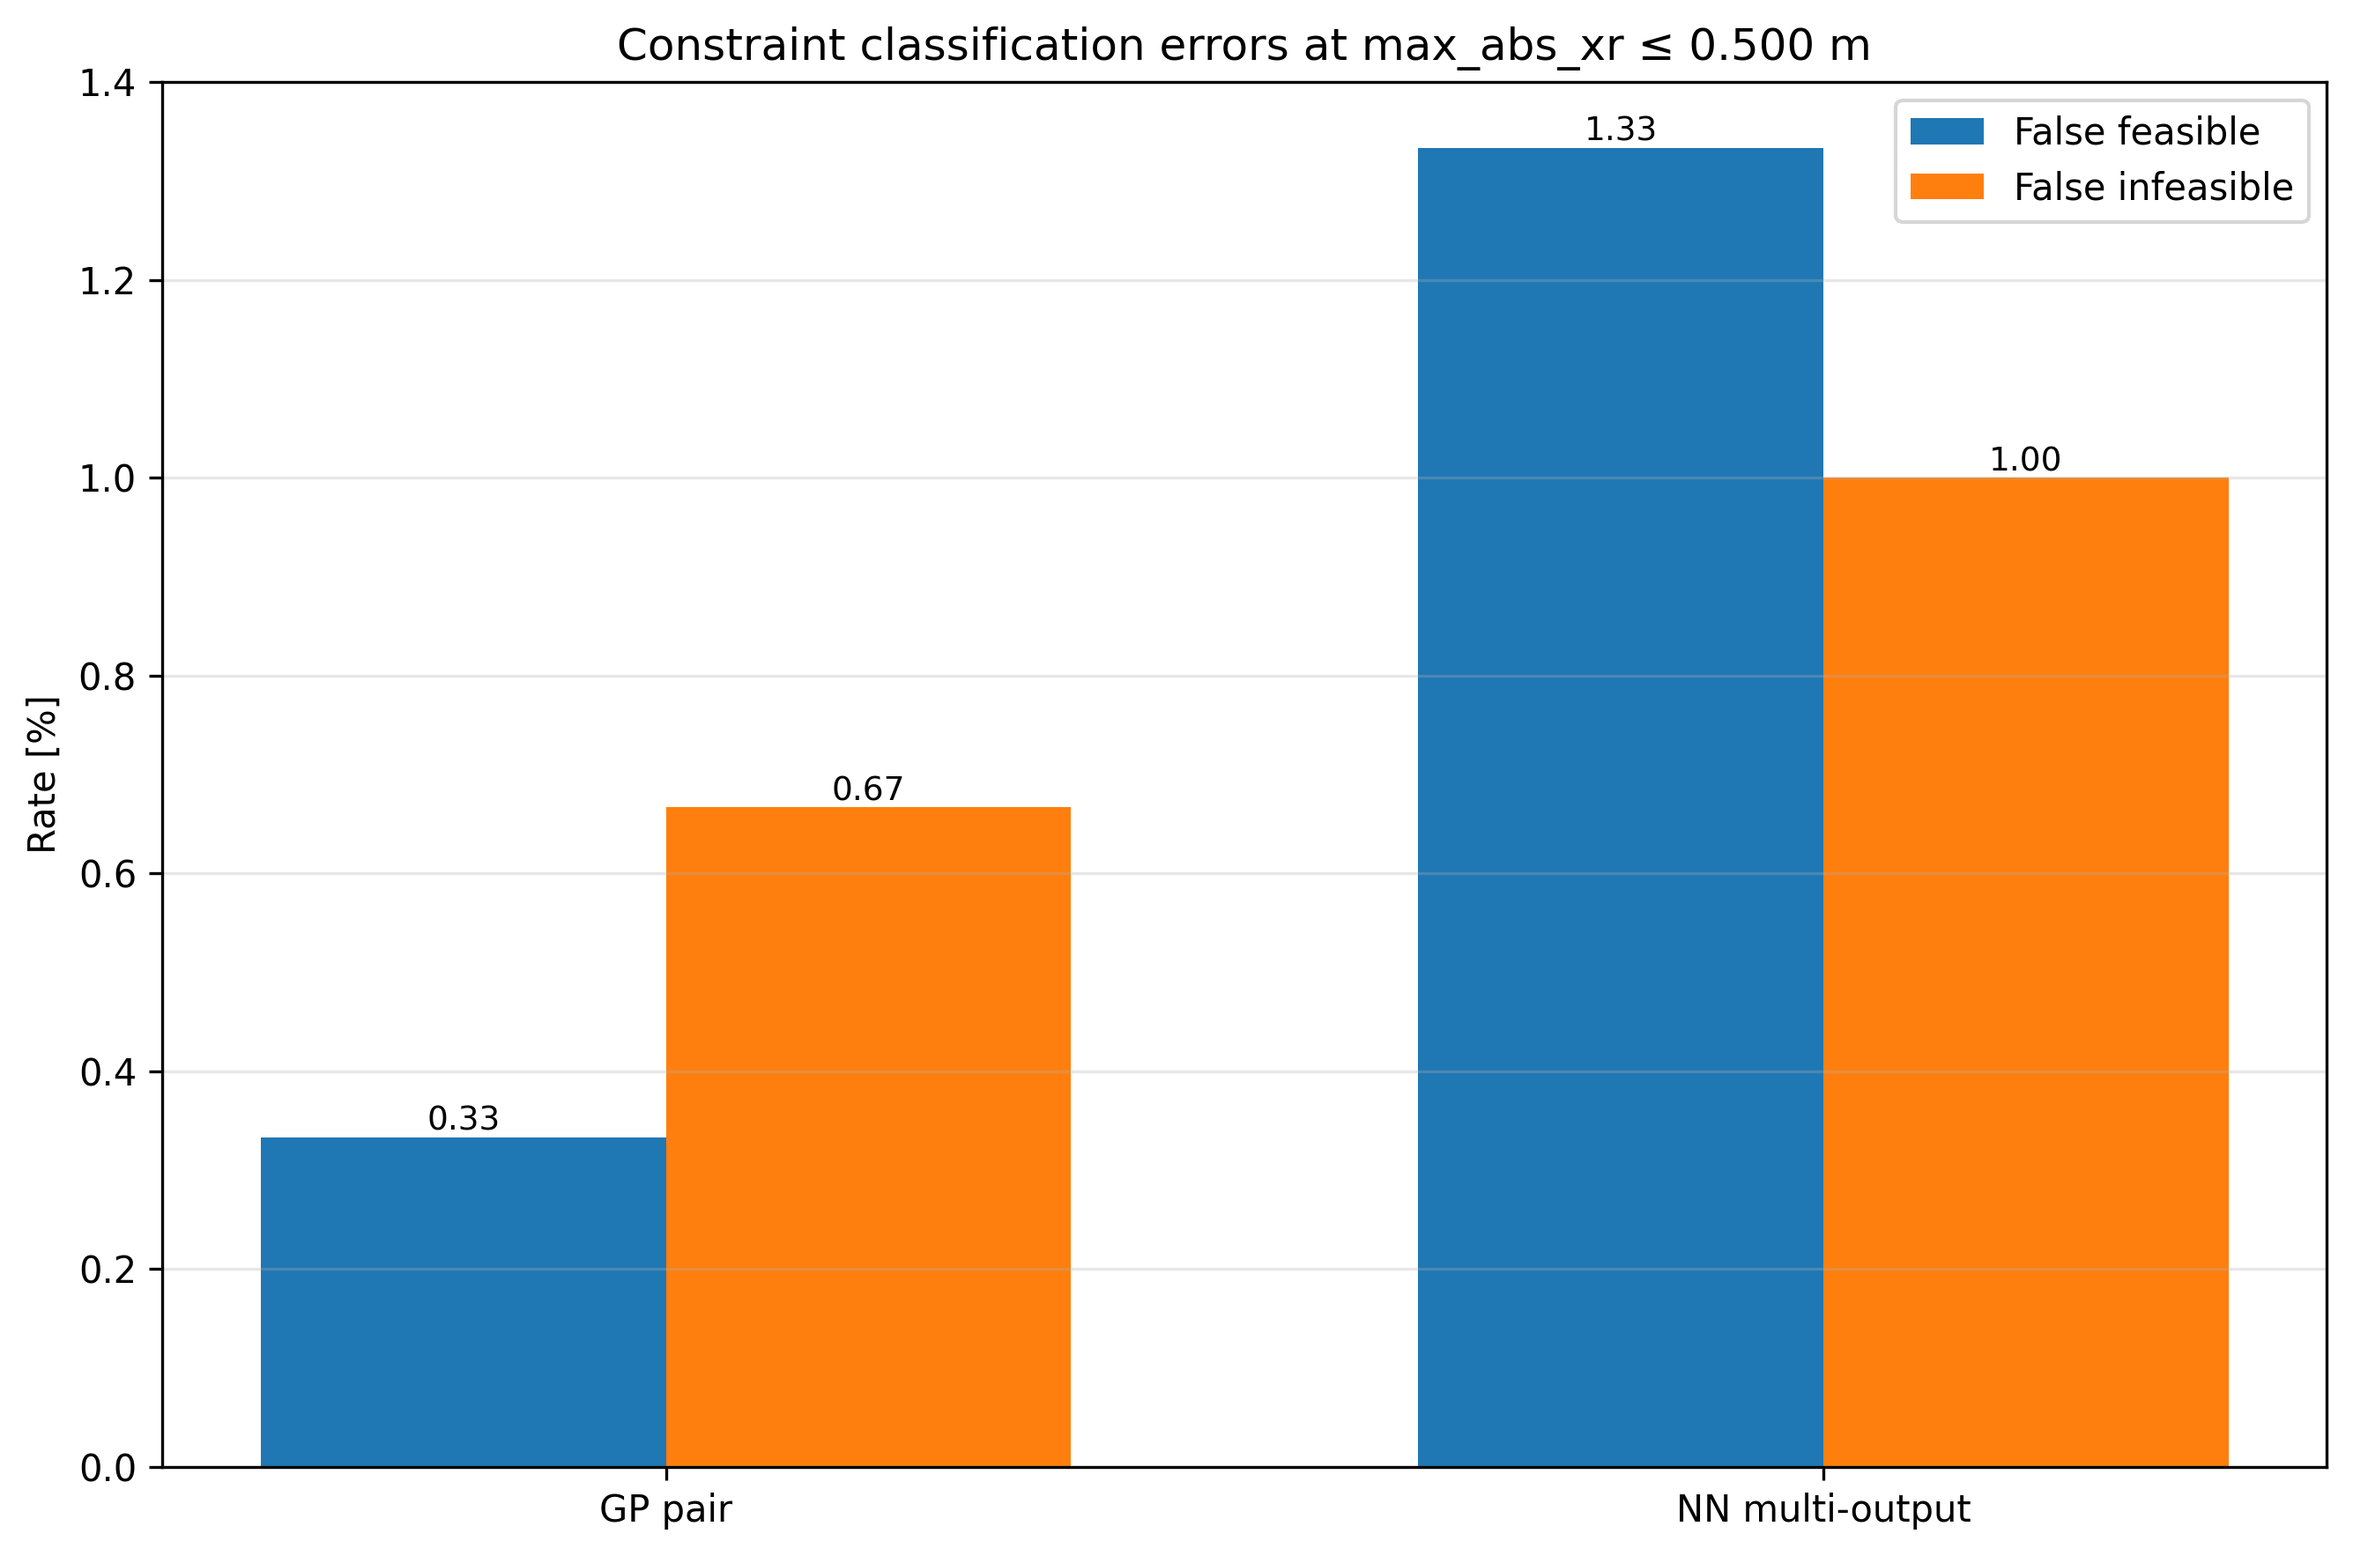
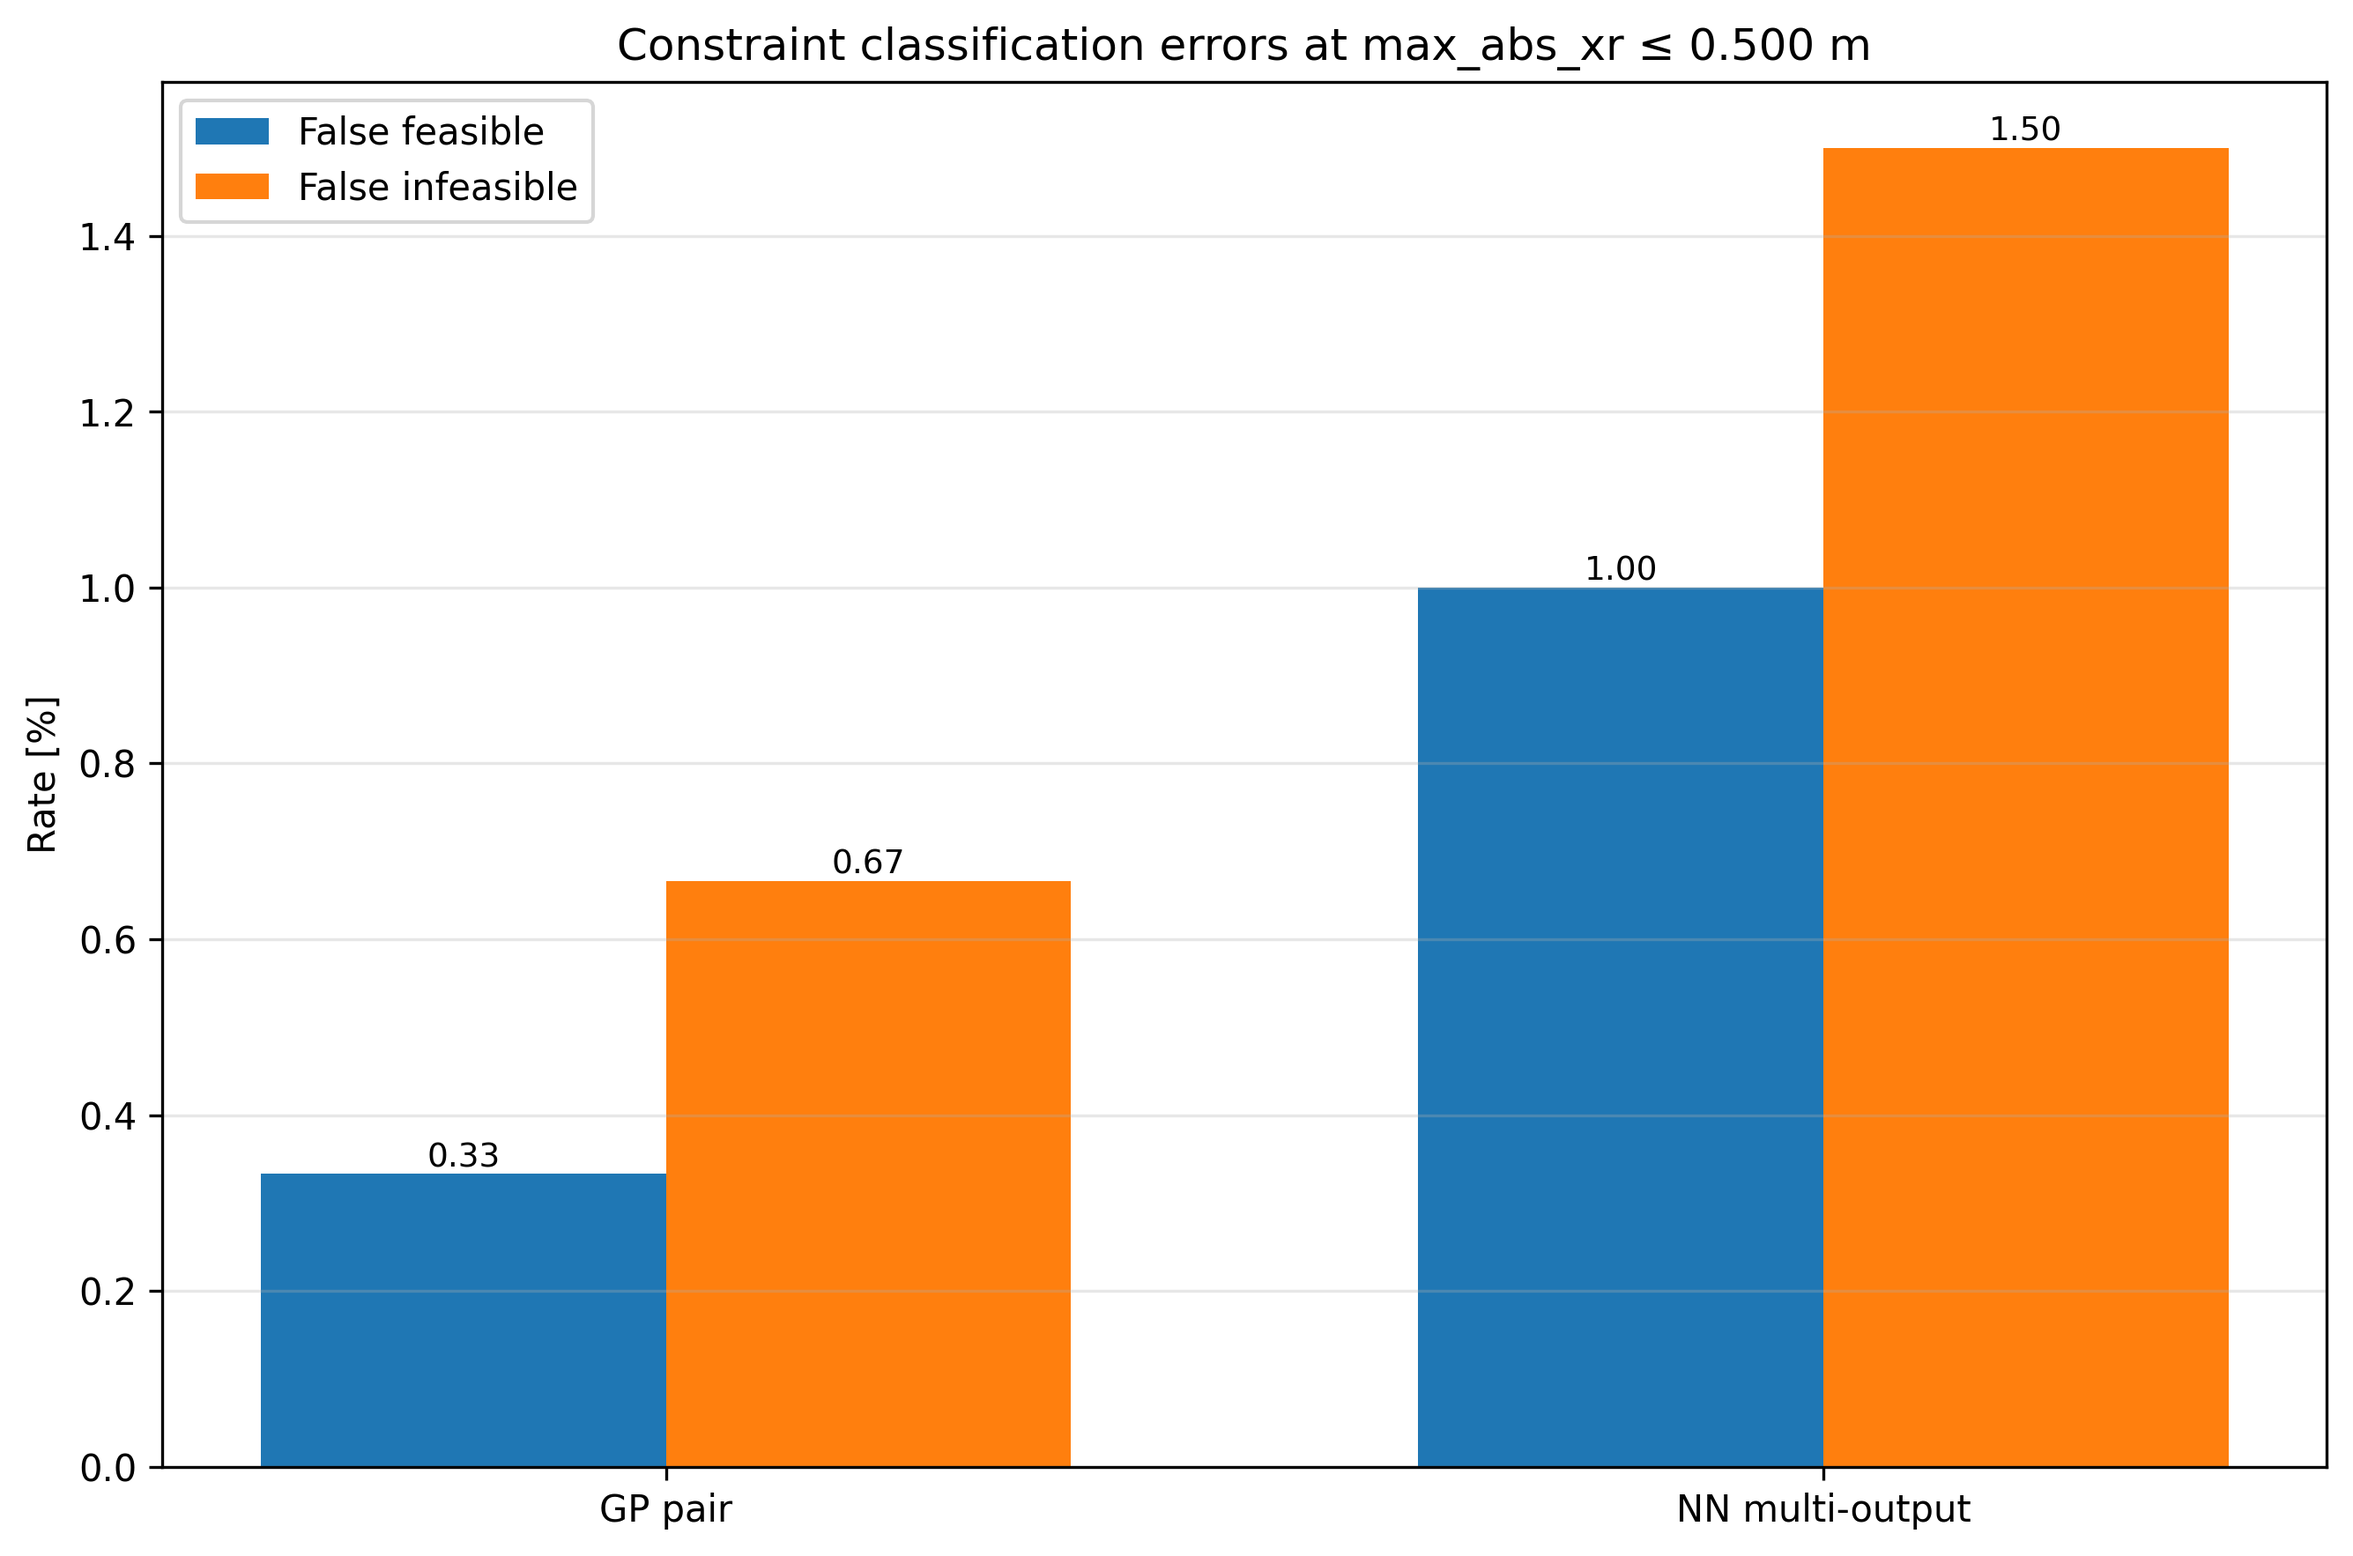
update model comparison

diff --git a/src/model_comparison.py b/src/model_comparison.py
@@ -23,7 +23,8 @@ Expected inputs
 results/gp/metrics.csv
 results/gp/test_prediction_errors.csv
 results/gp_constraints/metrics_max_abs_xr.csv
-results/nn/metrics.csv
+results/nn_v2/metrics.csv
+results/nn_v2/nn_multioutput_model.pt
 
 Optional inputs for inference timing
 ------------------------------------
@@ -94,7 +95,7 @@ FIGURES_DIR = PROJECT_ROOT / "figures"
 
 GP_RESULTS_DIR = RESULTS_DIR / "gp"
 GP_CONSTRAINT_RESULTS_DIR = RESULTS_DIR / "gp_constraints"
-NN_RESULTS_DIR = RESULTS_DIR / "nn"
+NN_RESULTS_DIR = RESULTS_DIR / "nn_v2"
 
 COMPARISON_RESULTS_DIR = RESULTS_DIR / "model_comparison"
 COMPARISON_FIGURES_DIR = FIGURES_DIR / "model_comparison"
@@ -255,6 +256,53 @@ def compute_gp_peak_high_outreach_metrics() -> Dict[str, float]:
     }
 
 
+def compute_nn_peak_high_outreach_metrics() -> Dict[str, float]:
+    """
+    Compute high-outreach peak_y metrics from the NN v2 test prediction table.
+
+    This is more robust than reading them from metrics.csv because the NN v2
+    script saves detailed high-outreach diagnostics in separate files and the
+    main metrics.csv may not always contain flattened high-outreach columns.
+    """
+    pred_path = NN_RESULTS_DIR / "test_predictions.csv"
+
+    if not pred_path.exists():
+        return {
+            "peak_y_high_outreach_n": np.nan,
+            "peak_y_high_outreach_rmse_mm": np.nan,
+            "peak_y_high_outreach_mae_mm": np.nan,
+        }
+
+    df = pd.read_csv(pred_path)
+
+    required = {"true_peak_y", "pred_peak_y"}
+    if not required.issubset(df.columns):
+        return {
+            "peak_y_high_outreach_n": np.nan,
+            "peak_y_high_outreach_rmse_mm": np.nan,
+            "peak_y_high_outreach_mae_mm": np.nan,
+        }
+
+    mask = df["true_peak_y"] > HIGH_OUTREACH_THRESHOLD
+
+    if not mask.any():
+        return {
+            "peak_y_high_outreach_n": 0,
+            "peak_y_high_outreach_rmse_mm": np.nan,
+            "peak_y_high_outreach_mae_mm": np.nan,
+        }
+
+    y_true = df.loc[mask, "true_peak_y"].to_numpy(dtype=float)
+    y_pred = df.loc[mask, "pred_peak_y"].to_numpy(dtype=float)
+    error = y_pred - y_true
+
+    return {
+        "peak_y_high_outreach_n": int(mask.sum()),
+        "peak_y_high_outreach_rmse_mm": float(np.sqrt(np.mean(error ** 2)) * 1000.0),
+        "peak_y_high_outreach_mae_mm": float(np.mean(np.abs(error)) * 1000.0),
+    }
+
+
 def collect_metrics() -> pd.DataFrame:
     """
     Collect metrics from GP and NN result files into one comparison table.
@@ -267,6 +315,7 @@ def collect_metrics() -> pd.DataFrame:
     nn_metrics = read_single_row_csv(NN_RESULTS_DIR / "metrics.csv", "NN metrics")
 
     gp_high = compute_gp_peak_high_outreach_metrics()
+    nn_high = compute_nn_peak_high_outreach_metrics()
 
     rows = []
 
@@ -317,15 +366,9 @@ def collect_metrics() -> pd.DataFrame:
             "peak_y_rmse_mm": get_value(nn_metrics, ["test_peak_y_rmse_mm"]),
             "peak_y_mae_mm": get_value(nn_metrics, ["test_peak_y_mae_mm"]),
             "peak_y_r2": get_value(nn_metrics, ["test_peak_y_r2"]),
-            "peak_y_high_outreach_n": get_value(nn_metrics, ["test_high_outreach_n_samples"]),
-            "peak_y_high_outreach_rmse_mm": get_value(
-                nn_metrics,
-                ["test_high_outreach_peak_y_rmse_mm"],
-            ),
-            "peak_y_high_outreach_mae_mm": get_value(
-                nn_metrics,
-                ["test_high_outreach_peak_y_mae_mm"],
-            ),
+            "peak_y_high_outreach_n": nn_high["peak_y_high_outreach_n"],
+            "peak_y_high_outreach_rmse_mm": nn_high["peak_y_high_outreach_rmse_mm"],
+            "peak_y_high_outreach_mae_mm": nn_high["peak_y_high_outreach_mae_mm"],
             "max_abs_xr_rmse_mm": get_value(nn_metrics, ["test_max_abs_xr_rmse_mm"]),
             "max_abs_xr_mae_mm": get_value(nn_metrics, ["test_max_abs_xr_mae_mm"]),
             "max_abs_xr_r2": get_value(nn_metrics, ["test_max_abs_xr_r2"]),
@@ -895,7 +938,7 @@ def benchmark_function(func, repeats: int = INFERENCE_REPEATS, warmup: int = INF
 
 def load_nn_for_timing():
     """
-    Load the trained NN and scalers for timing.
+    Load the trained NN v2 ensemble and scalers for timing.
     """
     if not TORCH_AVAILABLE:
         raise RuntimeError("PyTorch is not available.")
@@ -905,7 +948,9 @@ def load_nn_for_timing():
     scaler_y_path = NN_RESULTS_DIR / "scaler_Y.pkl"
 
     if not model_path.exists() or not scaler_x_path.exists() or not scaler_y_path.exists():
-        raise FileNotFoundError("NN model or scalers not found. Run src/model_nn.py first.")
+        raise FileNotFoundError(
+            "NN v2 model or scalers not found. Run src/model_nn_v2.py first."
+        )
 
     device = torch.device("cuda" if torch.cuda.is_available() else "cpu")
 
@@ -914,18 +959,32 @@ def load_nn_for_timing():
     except TypeError:
         checkpoint = torch.load(model_path, map_location=device)
 
-    model = MultiOutputMLP(
-        input_dim=len(checkpoint["input_columns"]),
-        hidden_layers=checkpoint["hidden_layers"],
-        output_dim=len(checkpoint["target_columns"]),
-    ).to(device)
-    model.load_state_dict(checkpoint["model_state_dict"])
-    model.eval()
-
     scaler_X = joblib.load(scaler_x_path)
     scaler_Y = joblib.load(scaler_y_path)
 
-    return model, scaler_X, scaler_Y, device
+    hidden_layers = checkpoint["hidden_layers"]
+    input_dim = len(checkpoint["input_columns"])
+    output_dim = len(checkpoint["target_columns"])
+
+    state_dicts = checkpoint.get("ensemble_state_dicts", None)
+
+    if state_dicts is None:
+        state_dicts = [checkpoint["model_state_dict"]]
+
+    models = []
+
+    for state_dict in state_dicts:
+        model = MultiOutputMLP(
+            input_dim=input_dim,
+            hidden_layers=hidden_layers,
+            output_dim=output_dim,
+        ).to(device)
+
+        model.load_state_dict(state_dict)
+        model.eval()
+        models.append(model)
+
+    return models, scaler_X, scaler_Y, device
 
 
 def run_inference_benchmark() -> pd.DataFrame:
@@ -998,7 +1057,7 @@ def run_inference_benchmark() -> pd.DataFrame:
     if not nn_available:
         print("⚠  NN model/scalers not found or PyTorch unavailable. Skipping NN inference benchmark.")
     else:
-        nn_model, nn_scaler_X, nn_scaler_Y, nn_device = load_nn_for_timing()
+        nn_models, nn_scaler_X, nn_scaler_Y, nn_device = load_nn_for_timing()
 
     for batch_size in INFERENCE_BATCH_SIZES:
         X_batch = make_benchmark_batch(X, batch_size)
@@ -1035,9 +1094,16 @@ def run_inference_benchmark() -> pd.DataFrame:
             def nn_predict():
                 X_scaled = nn_scaler_X.transform(X_batch)
                 X_tensor = torch.tensor(X_scaled, dtype=torch.float32, device=nn_device)
+
                 with torch.no_grad():
-                    pred_scaled = nn_model(X_tensor).cpu().numpy()
+                    pred_scaled_all = [
+                        model(X_tensor).cpu().numpy()
+                        for model in nn_models
+                    ]
+
+                pred_scaled = np.mean(pred_scaled_all, axis=0)
                 pred = nn_scaler_Y.inverse_transform(pred_scaled)
+
                 return pred
 
             mean_ms, std_ms = benchmark_function(nn_predict)

diff --git a/results/model_comparison/model_comparison_report_table.md b/results/model_comparison/model_comparison_report_table.md
@@ -1,4 +1,4 @@
 | Model | peak_y RMSE [mm] | peak_y R2 | High-outreach RMSE [mm] | max_abs_xr RMSE [mm] | max_abs_xr R2 | Constraint accuracy [%] | False feasible [%] | Near-boundary RMSE [mm] | Near-boundary false feasible [%] |
 | --- | --- | --- | --- | --- | --- | --- | --- | --- | --- |
 | GP pair | 13.147 | 0.981 | 21.442 | 3.701 | 0.996 | 99.0 | 0.333 | 2.169 | 0.935 |
-| NN multi-output | 15.959 | 0.973 | 26.93 | 5.132 | 0.991 | 97.667 | 1.333 | 3.262 | 3.738 |
+| NN multi-output | 15.502 | 0.974 | 26.786 | 4.386 | 0.994 | 97.5 | 1.0 | 2.408 | 2.804 |
